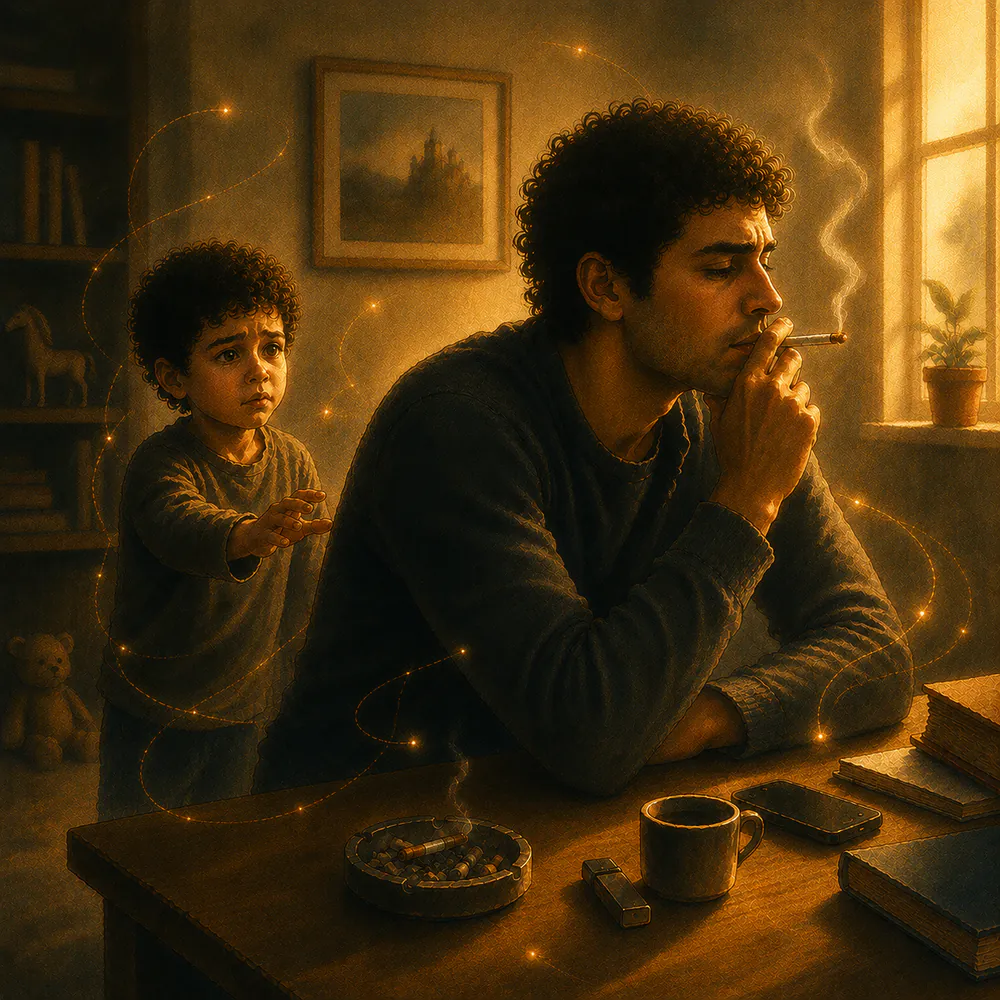
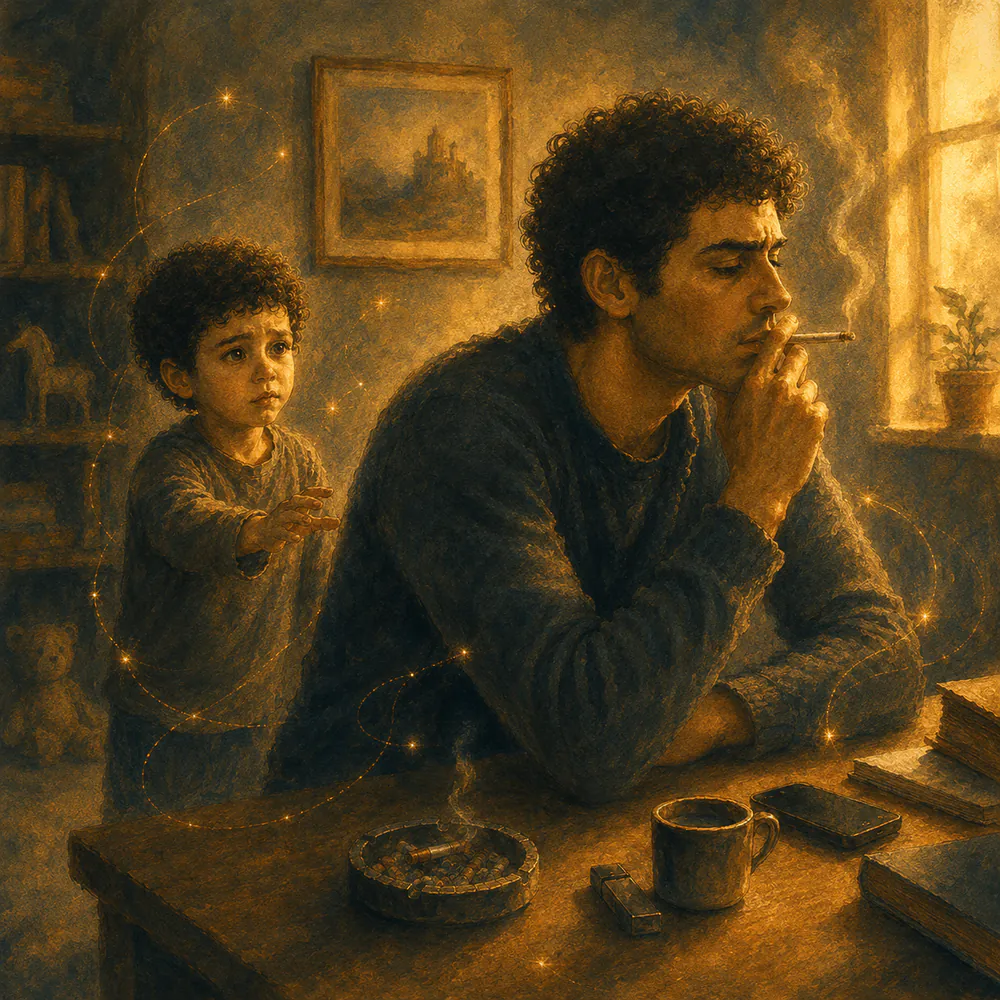
El cómic del pranayama estrena viñetas, y Síntesis repinta las suyas
Las tres del pranayama son carpeta nueva; las dos primeras de Síntesis venían
repintadas encima de las de antes. Las dos rutas se escriben con la extensión
puesta, así que hasta ahora esas viñetas salían vacías.

diff --git a/frontend/src/components/metodo/comicPranayama.ts b/frontend/src/components/metodo/comicPranayama.ts
@@ -27,9 +27,10 @@ export const COMIC_PRANAYAMA: Vineta[] = [
     // luz por la nariz y bajando hasta el vientre.
     src: `${P}/pranayama1.webp`,
     eyebrow: "Prāṇāyāma",
-    titulo: "La respiración como puerta",
+    titulo: "",
     paragraphs: [
-      "Prāṇa es la energía vital; āyāma, extender. Prāṇāyāma no es «respirar hondo»: es dirigir esa energía.",
+      "Prāṇa es la energía vital; āyāma, extender.",
+      "Prāṇāyāma no es «respirar hondo»: es dirigir esa energía.",
       "Respirar es la única función automática que también puedes gobernar a voluntad. Por eso es la puerta más directa que tienes al sistema nervioso.",
     ],
   },
@@ -37,11 +38,10 @@ export const COMIC_PRANAYAMA: Vineta[] = [
     // Viñeta 2: la postura. Sentada, espalda larga, primera luz de la mañana,
     // la casa todavía en silencio.
     src: `${P}/pranayama2.webp`,
-    titulo: "Antes de empezar",
+    titulo: "",
     paragraphs: [
-      "El freno está en la salida. Al inhalar el corazón se acelera; al exhalar, se frena. Si te llevas una sola cosa: alarga la exhalación.",
-      "Sentada y con el estómago vacío, o dos horas después de comer. Tumbada te dormirás, y dormir no es meditar.",
-      "Por la nariz, salvo que la técnica diga otra cosa.",
+      "Al inhalar el corazón se acelera; al exhalar, se frena. Si estás nervioso, alarga la exhalación.",
+      "La neurociencia ha demostrado que tumbarte reduce la activación de la corteza prefrontal y facilita que te quedes dormido. Por eso, aunque al principio pueda resultar incómodo, intenta mantenerte sentado.",
     ],
   },
   {
@@ -50,7 +50,7 @@ export const COMIC_PRANAYAMA: Vineta[] = [
     src: `${P}/pranayama3.webp`,
     paragraphs: [
       "Sin forzar nunca. Si te falta el aire o te mareas, sueltas y vuelves a tu respiración normal.",
-      "Si estás embarazada, tienes la tensión alta, glaucoma, epilepsia o un problema cardíaco, evita las retenciones y las respiraciones rápidas. Ante la duda, pregunta a tu médica.",
+      "Si estás embarazada, tienes la tensión alta, glaucoma, epilepsia o un problema cardíaco, evita las retenciones y las respiraciones rápidas, pero puedes hacer esta práctica.",
     ],
   },
 ];

diff --git a/frontend/src/components/metodo/comicSintesis.ts b/frontend/src/components/metodo/comicSintesis.ts
@@ -8,7 +8,7 @@ import type { Vineta } from "./ComicViewer";
 // OJO: este cómic vive solo en este paso del recorrido (no está en la galería
 // de Ilustraciones).
 //
-// Imágenes: /viñetas/psicologia/sintesis/sintesis1.png … sintesis3.png.
+// Imágenes: /viñetas/psicologia/sintesis/sintesis1.webp … sintesis3.webp.
 export const COMIC_SINTESIS: Vineta[] = [
   {
     src: "/viñetas/psicologia/sintesis/sintesis1.webp",
